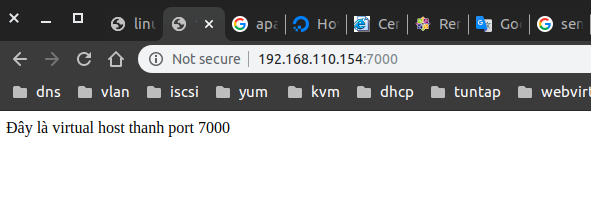
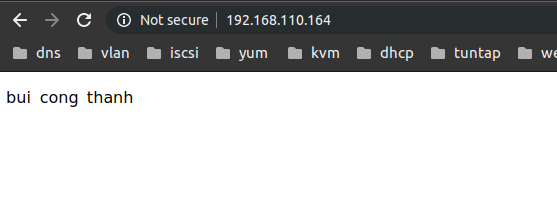
apache

diff --git a/tim-hieu-httpd-apache/cai-dat-su-dung-apache-tren-centos7.md b/tim-hieu-httpd-apache/cai-dat-su-dung-apache-tren-centos7.md
@@ -8,9 +8,9 @@ Mục Lục.
 
 [3. Cấu hình httpd](#3)
 
-- [3.1 Virtual hosts](#3.1)
+- [3.1 DocumentRoot](#3.1)
 
-- [3.2 DocumentRoot](#3.2)
+- [3.2 Add new port](#3.2)
 
 - [3.3 Name virtual host](#3.3)
 
@@ -75,53 +75,20 @@ echo 'Welcome to my website' > /var/www/html/index.html
 File cấu hình httpd được lưu tại thư mục **/etc/httpd**.
 
 <a name ="3.1"></a>
-### 3.1 Virtual hosts.
+### 3.1 DocumentRoot.
 
-Không giống như Debian, CentOS không có tệp cấu hình virtual host cho trang web mặc định của nó. Thay thế cấu hình mặc định sẽ đưa ra một trang lỗi tiêu chuẩn khi không tìm thấy tệp chỉ mục ở vị trí mặc định (/ var / www / html).
-Cấu hình virtual hosts tại file **/var/www/html**.
+Đây là file chứa các thông tin được hiển thị trên trang web.
+
+Có thể sử dụng nhiều loại định dạng khác nhau như html, php, . . . 
 
 ```
-vim /etc/httpd/conf.d/thanh.conf
+cd /var/www/html/
 ```
-Thêm các dòng sau để  mở thêm virtual host.
+Thêm file index cho default host.
 ```
-<VirtualHost *:7000>
- ServerAdmin root@localhost
- DocumentRoot /var/www/html/thanh
-</VirtualHost>
+echo 'bui cong thanh' > /var/www/html/index.html
 ```
-
-Cấu hình file **/etc/httpd/conf/httpd.conf** đê mở port 7000.
-```
-echo 'Listen 7000' >> /etc/httpd/conf/httpd.conf
-```
-
-Cấu hình SElinux bảo vệ thông qua ports.
-```
-semanage port -a -t ftp_port_t -p tcp 7000
-```
-Nếu trả về kết quả lỗi
-```
--bash: semanage: command not found
-```
-như sau thì tiếp tục làm các bước nếu không bị lỗi thì thôi.
-```
-yum provides /usr/sbin/semanage
-yum whatprovides /usr/sbin/semanage
-yum install policycoreutils-python -y
-```
-<a name ="3.2"></a>
-### 3.2 DocumentRoot.
-
-Tạo DocumentRoot cho virtualhost 7000 có tên **thanh** mà ta đã vừa tạo ở trên.
-```
-mkdir /var/www/html/thanh
-```
-Thêm file index cho virtual host **thanh**.
-```
-echo 'Đây là virtual host thanh port 7000' > /var/www/html/thanh/index.html
-```
-Kiểm tra thư mục **/etc/httpd/conf.d** xem có file **thanh.conf** nếu có thì tiên hành khởi động lại httpd.
+Kiểm tra thư mục **/etc/httpd/conf.d** xem có file **congthanh.conf** nếu có thì tiên hành khởi động lại httpd.
 ```
 systemctl restart httpd
 ```
@@ -129,21 +96,22 @@ systemctl restart httpd
 Kiêm tra lại website vửa tạo.
 
 ```
-wget 192.168.110.154:7000
+curl 192.168.110.164
+wget 192.168.110.164
 ```
 ![](anhhttp/anh4.png)
 
 Cấu hình firewall để bên ngoài có thể truy cập được vào trang web.
 ```
-firewall-cmd --zone=public --add-port=7000/tcp
+firewall-cmd --zone=public --add-port=80/tcp
 firewall-cmd --reload
 ```
 Kiểm tra xem đã thành công chưa.
 
 ![](anhhttp/anh5.png)
 
-<a name ="3.3"></a>
-### 3.3 Name virtual host.
+<a name ="3.2"></a>
+### 3.2 Add new port.
 
 Tạo tên cho virtual host băng cách thêm vào trong file **/etc/httpd/conf/httpd.conf**
 ```
@@ -155,20 +123,152 @@ vim /etc/httpd/conf.d/thanh.conf
 ```
 ![](anhhttp/anh7.png)
 
-Chỉnh sửa tên miền trong file **/etc/hosts**
-```
-echo '192.168.110.154 congthanh.loacal' >> /etc/hosts
-```
+Mở nghe port 7000 để có thể truy cập web site.
+![](anhhttp/anh10.png)
+
 Khởi động lại và kiểm tra xem đã thành công chưa.
 ```
 systemctl restart httpd
 ```
 Kiểm tra 
-```
-wget congthanh.local
-```
-![](anhhttp/anh6.png)
 
-Như vậy ta đã thành công trong việc đổi tên.
+![](anhhttp/anh11.png)
 
+Sử dụng lệnh.
+```
+wget 192.168.110.164:7000
+curl 192.168.110.164:7000
+```
+![](anhhttp/anh12.png)
+
+
+<a name ="3.3"></a>
+### 3.3 Virtual hosts.
+
+Không giống như Debian, CentOS không có tệp cấu hình virtual host cho trang web mặc định của nó. Thay thế cấu hình mặc định sẽ đưa ra một trang lỗi tiêu chuẩn khi không tìm thấy tệp chỉ mục ở vị trí mặc định (/ var / www / html).
+
+Ta có thể cấu hình nhiều host trên 1 virtual host.
+Nếu bạn có 1 IP public thì bạn có thể trỏ đến virtual host.
+
+Đây là môi trường lab nên tôi sử dụng 2 máy tính 1 máy làm client truy cập trang web và 1 máy làm web server.
+
+Tạo host trên file **/etc/hosts**.
+```
+echo '192.168.110.156 congthanh.com' >> /etc/hosts
+echo '192.168.110.156 congthanh2.com' >> /etc/hosts
+```
+![](anhhttp/anh13.png)
+
+Mỗi virtual host có thể sử dụng chung port nhưng phải sử dụng các nameserver khác nhau hay host khác nhau để truy cập. 
+
+Cấu hình virtual hosts tại file **/etc/httpd/conf.d/**.
+```
+vim /etc/httpd/conf.d/congthanh.com.conf
+```
+Thêm các dòng sau để  mở thêm virtual host.
+```
+<VirtualHost *:80>
+    ServerName congthanh.com
+    #ServerAlias www.congthanh.com
+    ServerAdmin root@localhost
+    DocumentRoot "/var/www/html/congthanh.com"
+    <Directory "/var/www/html/congthanh.com">
+       DirectoryIndex index.html
+       Options FollowSymLinks
+       AllowOverride All
+       Require all granted
+    </Directory>
+</VirtualHost>
+```
+
+Trong đó.
+- **Servername**: tên miền/địa chỉ IP mà bạn muốn đặt.
+- **ServerAdmin**:  mỗi web sẽ có 1 admin quản trị, đây là nơi khai báo địa chỉ email của người quản trị website.
+- **DocumentRoot**: đường dẫn của thư mục sẽ được gọi khi người dùng truy cập vào domain được cấu hình. Có thể nằm ở bất kỳ phân vùng nào. thường mặc định tại **/var/www/html**.
+- Thẻ **Directory**: 
+    - DirectoryIndex: Khi các bạn truy cập vào thư mục ( không chỉ rõ cụ thể là file nào) thì file trong trường này sẽ được gọi.
+    - Option: Option này cho phép bạn truy cập theo symbolic link 
+    - AllowOverride: chỉ định chỉ thị nào được khai báo trong tệp .htaccess có thể ghi đè chỉ thị cấu hình.
+    - Require:cho phép tất cả các máy khác được truy cập vào thư mục đang được cấu hình.
+
+Tạo file index.html để tạo nội dung hiển thị lên trang web.
+```
+echo 'website congthanh.com use servername congthanh.com' >> /var/www/html/congthanh.com/index.html
+```
+Cấu hình SElinux bảo vệ thông qua ports.
+```
+semanage port -a -t ftp_port_t -p tcp 80
+```
+Nếu trả về kết quả lỗi.
+```
+-bash: semanage: command not found
+```
+như sau thì tiếp tục làm các bước nếu không bị lỗi thì thôi.
+```
+yum provides /usr/sbin/semanage
+yum whatprovides /usr/sbin/semanage
+yum install policycoreutils-python -y
+```
+Kiểm tra. Sử dụng máy client truy cập vào tên miền có virtual host
+
+![](anhhttp/anh14.png)
+
+Cấu hình thêm 1 host trên virtual host.
+
+Thêm các dòng sau vào file **/etc/httpd/conf.d/congthanh.com.conf**
+```
+<VirtualHost *:80>
+    ServerName congthanh2.com
+    ServerAdmin root@localhost
+    DocumentRoot "/var/www/html/congthanh2.com"
+    <Directory "/var/www/html/congthanh2.com">
+       DirectoryIndex index.html
+       Options FollowSymLinks
+       AllowOverride All
+       Require all granted
+    </Directory>
+</VirtualHost>
+```
+
+Khởi động lại httpd.
+```
+systemctl restart httpd
+```
+Kiểm tra lại xem hosts trên tên miền mới đã hoạt động chưa.
+![](anhhttp/ah15.png)
+
+Như vậy ta đã thành công trong việc tạo và sử dụng virtual host.
+
+## 3.4  Basic authentication.
+
+Ta có thể cài đặt tài khoản và mật khẩu cho mỗi người dùng truy cập vào máy.
+
+Sử dụng file **.htpasswd**. Trong đó có 2 trường:
+- User: tên tài khoản muốn đăng nhập.
+- Password : được mã hóa không thể đọc bằng clear text.
+
+Tạo tài khoản cho nguwoif dùng mới. sử dụng câu lệnh.
+```
+htpasswd -c /var/www/.htpasswd thanhbc
+```
+![](anhhttp/anh16.png)
+
+Bật xác thực **AllowOverride** để kiểm duyệt qua mật khẩu trong **<Directoty "/var/www/html">**
+
+```
+vim /etc/httpd/conf/httpd.conf
+```
+![](anhhttp/anh17.png)
+
+restart lại apache để cập nhật thay đổi.
+```
+systemctl restart httpd
+```
+
+Truy cập lại vào trang web.
+
+
+![](anhhttp/anh9.png)
+
+Như vậy là đã thành công việc cấu hình basic auth bằng password
 
